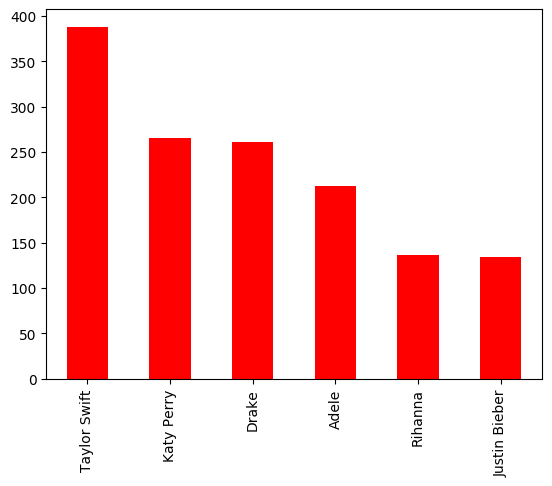
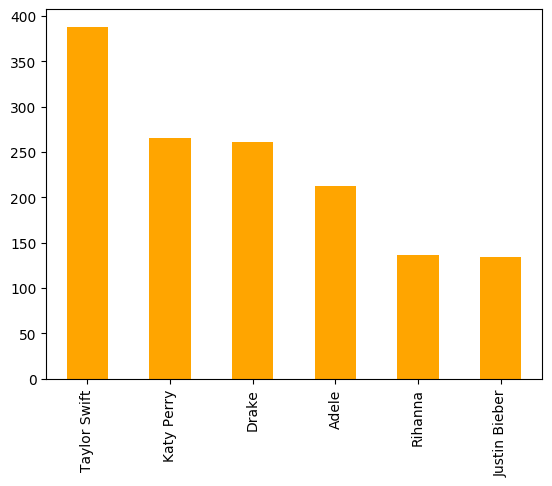
Finish histograms section.

diff --git a/edaUnivariate.tex b/edaUnivariate.tex
@@ -35,6 +35,9 @@ whether you're dealing with categorical or numeric data.
 \section{Categorical data: counts of occurrences}
 
 \index{faves@\texttt{faves}}
+\index{Swift@Taylor Swift}
+\index{Perry@Katy Perry}
+
 Let's say you had access to a poll on people's favorite pop stars. You import
 this into a big ol' Pandas \texttt{Series} called \texttt{faves}:
 
@@ -279,6 +282,7 @@ print(num_plays.quantile(.1))
 0.0
 \end{Verbatim}
 
+\label{pointOneQuantileEpiphany}
 Whoa. The .1-quantile is \textit{zero}. Think about what that means.
 Pictorially, sorting the data would give this:
 
@@ -568,7 +572,7 @@ It would be useful to see an infographic on how popular each celebrity is, and
 combining \texttt{.value\_counts()} and \texttt{.plot()} makes it a snap:
 
 \begin{Verbatim}[fontsize=\small,samepage=true,frame=single,framesep=3mm]
-faves.value_counts().plot(kind='bar',color="red")
+faves.value_counts().plot(kind='bar',color="orange")
 \end{Verbatim}
 
 \begin{figure}[ht]
@@ -752,5 +756,100 @@ But you do have to work at it a little bit.
 
 \subsection{Non-bell-curvy data}
 
-Let's return again to the celebrities example.
+\index{YouTube}
+\index{num\_plays@\texttt{num\_plays}}
+
+Let's return again to the YouTube example. We had some surprises when we looked
+at the quantiles and saw that the 1-quantile (max) was astronomically higher
+than the .9-quantile was. Let's see what happens when we plot a histogram
+(show in Figure~\ref{fig:youtube1}):
+
+\begin{Verbatim}[fontsize=\scriptsize,samepage=true,frame=single,framesep=3mm]
+num_plays.plot(kind='hist', color="red")
+\end{Verbatim}
+
+\begin{figure}[ht]
+\centering
+\includegraphics[width=1\textwidth]{youtube1.png}
+\caption{A first attempt at plotting the YouTube \texttt{num\_plays} data set.}
+\label{fig:youtube1}
+\end{figure}
+
+Huh?? Wait, where are all the bars of varying heights? We seem to have got only
+a single one.
+
+But they're there! They're just so small you can't see them. If you stare at
+the x-axis -- and your eyesight is good -- you might see tiny signs of life at
+higher values. But the overall picture is clear: the vast, vast majority of
+videos in this set have between 0 and 100,000 plays.
+
+\index{bins (of a histogram)}
+
+Let's see if we can get more detail by increasing the number of bins (say,
+to 1000):
+
+\begin{Verbatim}[fontsize=\scriptsize,samepage=true,frame=single,framesep=3mm]
+num_plays.plot(kind='hist', bins=1000, color="red")
+\end{Verbatim}
+
+We now get the left-hand side of Figure~\ref{fig:youtube23}. It didn't really
+help much. Turns out the masses aren't merely crammed below a hundred thousand
+plays; they're crammed below \textit{one} thousand. We need another approach if
+we're going to see any detail on the low-play videos.
+
+\begin{figure}[ht]
+\centering
+\includegraphics[width=.48\textwidth]{youtube2.png}
+\includegraphics[width=.48\textwidth]{youtube3.png}
+\caption{Further attempts at plotting the YouTube \texttt{num\_plays} data set.
+On the left side, we decreased the bin size to no avail. On the right side, we
+gave up on plotting the popular videos and concentrated only on the unpopular
+ones, which does illuminate the lower end somewhat. (Don't miss the x-axis
+ranges!)}
+\label{fig:youtube23}
+\end{figure}
+
+
+\index{distribution}
+\index{query}
+\index{filter}
+
+The only way to really see the distribution on the low end is to \textit{only}
+plot the low end. Let's use a query (recall section~\ref{queries} from
+p.~\pageref{queries}) to filter out \textit{only} the videos with 1000 plays or
+fewer, and then plot a histogram of that:
+
+\begin{Verbatim}[fontsize=\scriptsize,samepage=true,frame=single,framesep=3mm]
+unpopular_video_plays = num_plays[num_plays <= 1000]
+unpopular_video_plays.plot(kind='hist', color="green")
+\end{Verbatim}
+
+This gives the right-hand side of Figure~\ref{fig:youtube23}. Now we can at
+least see what's going on. Looks like our \texttt{Series} has a crap-ton of
+videos that have never been viewed at all (recall our .1-quantile epiphany for
+this data set on p.\pageref{pointOneQuantileEpiphany}) plus a chunk that are in
+the 500-views-or-fewer range.
+
+\index{bell-curvy@``bell-curvy''}
+\index{mean}
+\index{standard deviation}
+
+The takeaway here is that not all data sets (by a long shot!) are bell-curvy.
+Statistics courses often present nice, symmetric data sets on physical
+phenomena like length or weight or free throw shooting, which have nice bell
+curves and are nicely summarized by means and standard deviations. But for many
+social phenomena (like salaries, numbers of likes/followers/plays, lengths of
+Broadway show runs, \textit{etc.})~the data looks more like this YouTube
+example. A few extremely large values dominate everything else by their sheer
+magnitude, which makes it more difficult to wrap your head around.
+
+It also makes it more challenging to answer the question, ``what's the
+\textit{typical} value for this variable?'' It ain't the mean, that's for sure.
+If you asked me for the ``typical'' number of plays of one of these YouTube
+videos, I'd probably say ``zero'' since that's an extremely common value.
+Another reasonable answer would be ``somewhere in the low hundreds,'' since
+there are quite a few videos in that range, as illustrated by the
+right-hand-side of Figure~\ref{fig:youtube23}. But you'd be hard-pressed to try
+and sum up the entire data set with a single typical value. There just isn't
+one for stuff like this.
 

diff --git a/youtube.py b/youtube.py
@@ -4,21 +4,27 @@ import pandas as pd
 import matplotlib.pyplot as plt
 import scipy.stats
 
-yt = np.clip(np.floor(np.random.normal(250,160,2000)),0,np.inf)
-yt = np.concatenate([yt,
+num_plays = np.clip(np.floor(np.random.normal(250,160,2000)),0,np.inf)
+num_plays = np.concatenate([num_plays,
     np.clip(np.floor(np.random.normal(950,400,400)),0,np.inf)])
-yt = np.concatenate([yt,
+num_plays = np.concatenate([num_plays,
     np.clip(np.floor(np.random.normal(2050,900,240)),0,np.inf)])
-yt = np.concatenate([yt,
+num_plays = np.concatenate([num_plays,
     np.clip(np.floor(np.random.uniform(5050,1000000,90)),0,np.inf)])
-yt = np.concatenate([yt,np.zeros(500)])
-np.random.shuffle(yt)
-yt = pd.Series(yt).astype(int)
+num_plays = np.concatenate([num_plays,np.zeros(500)])
+np.random.shuffle(num_plays)
+num_plays = pd.Series(num_plays).astype(int)
 
 
-qs = [ (q, np.floor(yt.quantile(q))) for q in np.arange(0,1.1,.1) ]
+qs = [ (q, np.floor(num_plays.quantile(q))) for q in np.arange(0,1.1,.1) ]
 for q in qs:
     print("The {:.1f}-quantile is {:.0f}.".format(q[0],q[1]))
-yt[yt < 1000].hist(bins=40)
-yt.hist(bins=40)
-plt.show()
+plt.clf()
+num_plays.plot(kind="hist", color="red")
+plt.savefig("youtube1.png")
+plt.clf()
+num_plays.plot(kind="hist", bins=100, color="red")
+plt.savefig("youtube2.png")
+plt.clf()
+num_plays[num_plays < 1000].plot(kind="hist", bins=40, color="green")
+plt.savefig("youtube3.png")

diff --git a/celebs.py b/celebs.py
@@ -20,5 +20,9 @@ counts = celebs.value_counts()
 print(counts)
 
 plt.figure()
+counts.plot(kind='bar',color="orange")
+plt.savefig('celebs.png', bbox_inches='tight')
+
+plt.figure()
 counts.sort_index().plot(kind='bar',color="purple")
 plt.savefig('celebs2.png', bbox_inches='tight')

diff --git a/pythonAssocArrays3.tex b/pythonAssocArrays3.tex
@@ -68,6 +68,7 @@ order.
 
 \section{Queries}
 
+\label{queries}
 \index{query}
 \index{match (a query)}
 \index{filter}
